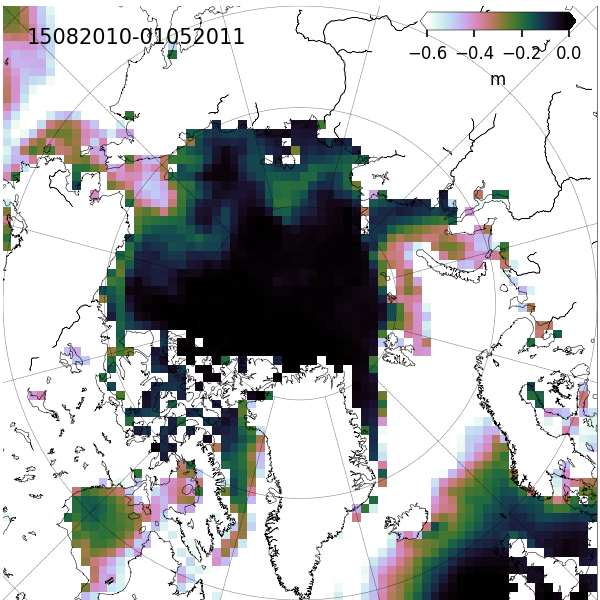
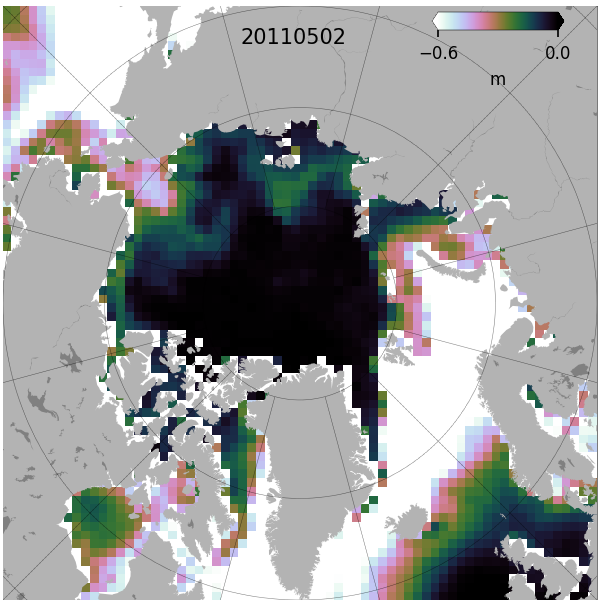
update description

diff --git a/Main/NESOSIM.py b/Main/NESOSIM.py
@@ -2,16 +2,17 @@
 	
 	The NASA Euelerian Snow on Sea Ice Model (NESOSIM). 
 	Model written by Alek Petty (03/01/2018)
-	Contact me for questions (alek.a.petty@nasa.gov) or refer to the GitHub site (ADD THIS)
+	Contact me for questions (alek.a.petty@nasa.gov) or refer to the GitHub site (https://github.com/akpetty/NESOSIM)
 
-
-	Run this python script with the run.py script. 
+	Run this python script with the run.py script in this same directory. 
 
 	Input:
 		Gridded/daily data of snowfall, ice drift, ice concentration, wind speeds
 
 	Output:
-		Gridded/daily data of the snow depth/density and snow budget terms (as xarrays)
+		Gridded/daily data of the snow depth/density and snow budget terms.
+		The DataOutput/MODELRUN/budgets/ netcdf files are all the snow budget terms needed for the analysis scripts/
+		The DataOutput/MODELRUN/final/ netcdf files are the finalized netcdf files of the key variables, including metadata.
 
 	Python dependencies:
 		See below for the relevant module imports. Of note:
@@ -20,6 +21,7 @@
 		matplotlib
 		basemap
 
+		More information on installation is given in the README file.
 
 	Update history:
 		03/01/2018: Version 1
@@ -446,24 +448,24 @@ def plotEndBudgets(m, xptsG, yptsG, precipDaysT, windDaysT, snowDepthsT, snowOce
 	snowAdvT, snowWindT, snowWindPackT, snowWindPackLossT, snowWindPackGainT, densityT, dateStr, totalOutStr='test'):
 	""" Plot snow budget terms """
 
-	cF.plotSnow(m, xptsG, yptsG, precipDaysT, date_string=dateStr, out=figpath+'/precip'+totalOutStr, units_lab=r'm', minval=0., maxval=1., base_mask=0, norm=0, cmap_1=cm.cubehelix_r)
-	cF.plotSnow(m, xptsG, yptsG, windDaysT, date_string=dateStr, out=figpath+'/wind'+totalOutStr, units_lab=r'm/s', minval=0., maxval=10, base_mask=0, norm=0, cmap_1=cm.cubehelix_r)
+	cF.plotSnow(m, xptsG, yptsG, precipDaysT, date_string=dateStr, out=figpath+'/precip'+totalOutStr, units_lab=r'kg/m2', minval=0., maxval=1., base_mask=1, norm=0, cmap_1=cm.cubehelix_r)
+	cF.plotSnow(m, xptsG, yptsG, windDaysT, date_string=dateStr, out=figpath+'/wind'+totalOutStr, units_lab=r'm/s', minval=0., maxval=10, base_mask=1, norm=0, cmap_1=cm.cubehelix_r)
 
-	cF.plotSnow(m, xptsG, yptsG, snowDepthsT[0], date_string=dateStr, out=figpath+'/snowNew_'+totalOutStr, units_lab=r'm', minval=0., maxval=0.5, base_mask=0, norm=0, cmap_1=cm.cubehelix_r)
-	cF.plotSnow(m, xptsG, yptsG, snowDepthsT[1], date_string=dateStr, out=figpath+'/snowOld_'+totalOutStr, units_lab=r'm', minval=0., maxval=0.5, base_mask=0, norm=0, cmap_1=cm.cubehelix_r)
-	cF.plotSnow(m, xptsG, yptsG, (snowDepthsT[0]+snowDepthsT[1]), date_string=dateStr, out=figpath+'/snowTot_'+totalOutStr, units_lab=r'm', minval=0., maxval=0.5, base_mask=0, norm=0, cmap_1=cm.cubehelix_r)
+	cF.plotSnow(m, xptsG, yptsG, snowDepthsT[0], date_string=dateStr, out=figpath+'/snowNew_'+totalOutStr, units_lab=r'm', minval=0., maxval=0.5, base_mask=1, norm=0, cmap_1=cm.cubehelix_r)
+	cF.plotSnow(m, xptsG, yptsG, snowDepthsT[1], date_string=dateStr, out=figpath+'/snowOld_'+totalOutStr, units_lab=r'm', minval=0., maxval=0.5, base_mask=1, norm=0, cmap_1=cm.cubehelix_r)
+	cF.plotSnow(m, xptsG, yptsG, (snowDepthsT[0]+snowDepthsT[1]), date_string=dateStr, out=figpath+'/snowTot_'+totalOutStr, units_lab=r'm', minval=0., maxval=0.5, base_mask=1, norm=0, cmap_1=cm.cubehelix_r)
 
-	cF.plotSnow(m, xptsG, yptsG, snowOceanT, date_string=dateStr, out=figpath+'/snowOcean_'+totalOutStr, units_lab=r'm', minval=-0.6, maxval=0, base_mask=0, norm=0, cmap_1=cm.cubehelix_r)
-	cF.plotSnow(m, xptsG, yptsG, snowAccT, date_string=dateStr, out=figpath+'/snowAcc_'+totalOutStr, units_lab=r'm', minval=0., maxval=0.6, base_mask=0, norm=0, cmap_1=cm.cubehelix_r)
+	cF.plotSnow(m, xptsG, yptsG, snowOceanT, date_string=dateStr, out=figpath+'/snowOcean_'+totalOutStr, units_lab=r'm', minval=-0.6, maxval=0, base_mask=1, norm=0, cmap_1=cm.cubehelix_r)
+	cF.plotSnow(m, xptsG, yptsG, snowAccT, date_string=dateStr, out=figpath+'/snowAcc_'+totalOutStr, units_lab=r'm', minval=0., maxval=0.6, base_mask=1, norm=0, cmap_1=cm.cubehelix_r)
 
-	cF.plotSnow(m, xptsG, yptsG, snowDivT, date_string=dateStr, out=figpath+'/snowDiv_'+totalOutStr, units_lab=r'm', minval=-0.3, maxval=0.3, base_mask=0, norm=0, cmap_1=cm.RdBu)
-	cF.plotSnow(m, xptsG, yptsG, snowAdvT, date_string=dateStr, out=figpath+'/snowAdv_'+totalOutStr, units_lab=r'm', minval=-0.3, maxval=0.3, base_mask=0, norm=0, cmap_1=cm.RdBu)
-	cF.plotSnow(m, xptsG, yptsG, snowWindT, date_string=dateStr, out=figpath+'/snowWind_'+totalOutStr, units_lab=r'm', minval=-0.3, maxval=0.3, base_mask=0, norm=0, cmap_1=cm.RdBu)
-	cF.plotSnow(m, xptsG, yptsG, snowWindPackT, date_string=dateStr, out=figpath+'/snowWindPackNet_'+totalOutStr, units_lab=r'm', minval=-0.3, maxval=0., base_mask=0, norm=0, cmap_1=cm.cubehelix)
-	cF.plotSnow(m, xptsG, yptsG, snowWindPackLossT, date_string=dateStr, out=figpath+'/snowWindPackLoss_'+totalOutStr, units_lab=r'm', minval=-0.3, maxval=0., base_mask=0, norm=0, cmap_1=cm.cubehelix)
-	cF.plotSnow(m, xptsG, yptsG, snowWindPackGainT, date_string=dateStr, out=figpath+'/snowWindPackGain_'+totalOutStr, units_lab=r'm', minval=0, maxval=0.3, base_mask=0, norm=0, cmap_1=cm.cubehelix_r)
+	cF.plotSnow(m, xptsG, yptsG, snowDivT, date_string=dateStr, out=figpath+'/snowDiv_'+totalOutStr, units_lab=r'm', minval=-0.3, maxval=0.3, base_mask=1, norm=0, cmap_1=cm.RdBu)
+	cF.plotSnow(m, xptsG, yptsG, snowAdvT, date_string=dateStr, out=figpath+'/snowAdv_'+totalOutStr, units_lab=r'm', minval=-0.3, maxval=0.3, base_mask=1, norm=0, cmap_1=cm.RdBu)
+	cF.plotSnow(m, xptsG, yptsG, snowWindT, date_string=dateStr, out=figpath+'/snowWind_'+totalOutStr, units_lab=r'm', minval=-0.3, maxval=0.3, base_mask=1, norm=0, cmap_1=cm.RdBu)
+	cF.plotSnow(m, xptsG, yptsG, snowWindPackT, date_string=dateStr, out=figpath+'/snowWindPackNet_'+totalOutStr, units_lab=r'm', minval=-0.3, maxval=0., base_mask=1, norm=0, cmap_1=cm.cubehelix)
+	cF.plotSnow(m, xptsG, yptsG, snowWindPackLossT, date_string=dateStr, out=figpath+'/snowWindPackLoss_'+totalOutStr, units_lab=r'm', minval=-0.3, maxval=0., base_mask=1, norm=0, cmap_1=cm.cubehelix)
+	cF.plotSnow(m, xptsG, yptsG, snowWindPackGainT, date_string=dateStr, out=figpath+'/snowWindPackGain_'+totalOutStr, units_lab=r'm', minval=0, maxval=0.3, base_mask=1, norm=0, cmap_1=cm.cubehelix_r)
 
-	cF.plotSnow(m, xptsG, yptsG, densityT, date_string=dateStr, out=figpath+'/dens'+totalOutStr, units_lab=r'm', minval=300, maxval=360, base_mask=0, norm=0, cmap_1=cm.cubehelix_r)
+	cF.plotSnow(m, xptsG, yptsG, densityT, date_string=dateStr, out=figpath+'/dens'+totalOutStr, units_lab=r'kg/m3', minval=300, maxval=360, base_mask=1, norm=0, cmap_1=cm.cubehelix_r)
 
 
 
@@ -685,5 +687,5 @@ def main(year1, month1, day1, yearIC1=0, reanalysisP='ERAI', varStr='sf', driftP
 	if (plotBudgets==1):
 		# Plot final snow budget terms
 		plotEndBudgets(m, xptsG, yptsG, precipDayG, windDayG, snowDepths[x+1], snowOcean[x+1], snowAcc[x+1], snowDiv[x+1], \
-		snowAdv[x+1], snowWind[x+1], snowWindPack[x+1], snowWindPackLoss[x+1], snowWindPackGain[x+1], density[x+1], dateOut, totalOutStr=saveStr)
+		snowAdv[x+1], snowWind[x+1], snowWindPack[x+1], snowWindPackLoss[x+1], snowWindPackGain[x+1], density[x+1], dates[-1], totalOutStr=saveStr)
 

diff --git a/Main/commonFuncs.py b/Main/commonFuncs.py
@@ -95,18 +95,18 @@ def plotSnow(m, xpts , ypts, var_mag, shading='flat', out='./figure', units_lab=
 	#m.drawmapboundary(fill_color='0.4' , zorder=1)
 	    m.fillcontinents(color='0.7',lake_color='grey', zorder=5)
 	
-	m.drawcoastlines(linewidth=0.25, zorder=10)
+	#m.drawcoastlines(linewidth=0.25, zorder=10)
 
-	ax1.annotate(date_string, xy=(0.04, 0.93),xycoords='axes fraction', horizontalalignment='left', verticalalignment='bottom', fontsize=10, zorder=10)
+	ax1.annotate(date_string, xy=(0.4, 0.93),xycoords='axes fraction', horizontalalignment='left', verticalalignment='bottom', fontsize=10, zorder=10)
 
 
 	#ADD COLORBAR TO MAP
-	cax = fig.add_axes([0.7, 0.95, 0.26, 0.03])
+	cax = fig.add_axes([0.72, 0.95, 0.22, 0.03])
 
 	#cax = fig.add_axes([0.1, 0.1, 0.8, 0.04])
 	cbar = colorbar(im1,cax=cax, orientation='horizontal', extend=cbar_type, use_gridspec=True)
 	cbar.set_label(units_lab)
-	cbar.set_ticks(np.linspace(minval, maxval, 4))
+	cbar.set_ticks([minval, maxval])
 
    
 
